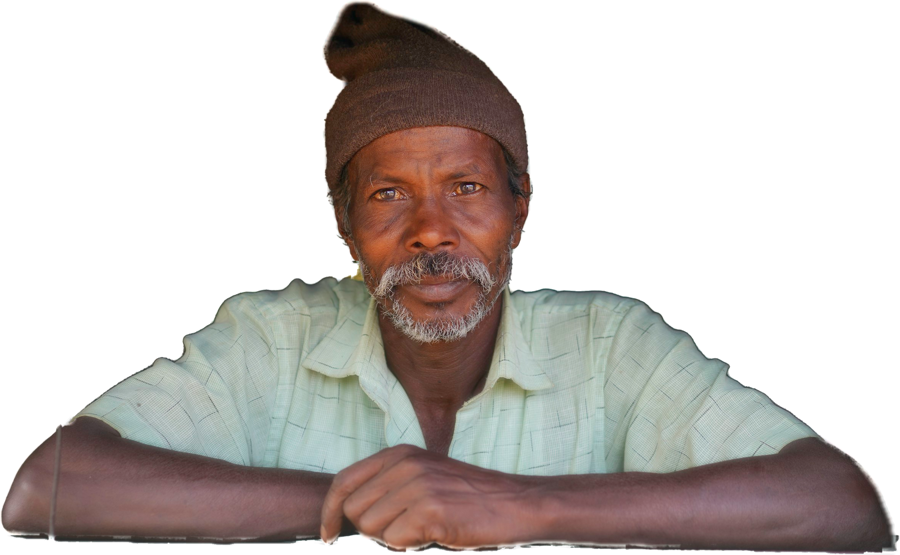
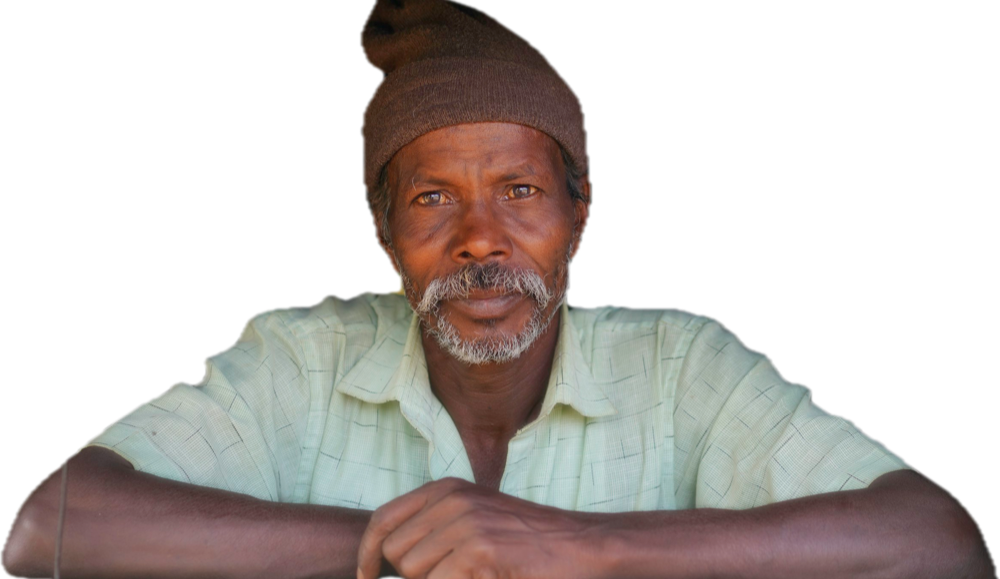
Premium service cards and cleaner farmer cutout
- "Tax Partner For" cards: white cards with corner colour wash, numbered
  labels, icon tiles, cursor spotlight and "Get started" links
- Re-cut farmer image without dark fringe and fit it to the plantation box

diff --git a/index.html b/index.html
@@ -139,43 +139,44 @@
 <!-- ================= TRUSTED FOR ================= -->
 <section class="section" id="for">
   <div class="container">
+    <div class="for-head reveal"><span class="label label--soft">Who we serve</span></div>
     <h2 class="title reveal">Kerala's Most Trusted<br /><span class="navy">Tax Partner For</span></h2>
     <div class="pastel-grid">
       <a href="#contact" class="pcard p-blue reveal">
-        <div class="pcard__top"><h3>Salaried<br />Professionals</h3>
-          <svg viewBox="0 0 48 48" class="ai ai-bag"><rect x="8" y="16" width="32" height="22" rx="4" class="fill-blue"/><path class="handle" d="M18 16v-4a2 2 0 0 1 2-2h8a2 2 0 0 1 2 2v4"/><path d="M8 25h32" stroke="#fff"/><rect x="21" y="22" width="6" height="6" rx="1.5" fill="#fff" stroke="none"/></svg>
-        </div>
+        <div class="pcard__top"><span class="pcard__num">01</span><span class="pcard__icon"><svg viewBox="0 0 48 48" class="ai ai-bag"><rect x="8" y="16" width="32" height="22" rx="4" class="fill-blue"/><path class="handle" d="M18 16v-4a2 2 0 0 1 2-2h8a2 2 0 0 1 2 2v4"/><path d="M8 25h32" stroke="#fff"/><rect x="21" y="22" width="6" height="6" rx="1.5" fill="#fff" stroke="none"/></svg></span></div>
+        <h3>Salaried<br />Professionals</h3>
         <p>Simple, accurate ITR filing with Form 16 and every deduction claimed.</p>
+        <span class="pcard__cta">Get started <i>→</i></span>
       </a>
       <a href="#contact" class="pcard p-mint reveal">
-        <div class="pcard__top"><h3>Business &amp;<br />GST Filers</h3>
-          <svg viewBox="0 0 48 48" class="ai ai-bars"><path d="M6 40h36" /><rect class="b b1" x="10" y="22" width="7" height="18" rx="2" fill="#349c67" stroke="none"/><rect class="b b2" x="21" y="14" width="7" height="26" rx="2" fill="#56c08a" stroke="none"/><rect class="b b3" x="32" y="8" width="7" height="32" rx="2" fill="#349c67" stroke="none"/></svg>
-        </div>
+        <div class="pcard__top"><span class="pcard__num">02</span><span class="pcard__icon"><svg viewBox="0 0 48 48" class="ai ai-bars"><path d="M6 40h36" /><rect class="b b1" x="10" y="22" width="7" height="18" rx="2" fill="#349c67" stroke="none"/><rect class="b b2" x="21" y="14" width="7" height="26" rx="2" fill="#56c08a" stroke="none"/><rect class="b b3" x="32" y="8" width="7" height="32" rx="2" fill="#349c67" stroke="none"/></svg></span></div>
+        <h3>Business &amp;<br />GST Filers</h3>
         <p>GST registration, GSTR-1 &amp; 3B returns, reconciliation and annual returns.</p>
+        <span class="pcard__cta">Get started <i>→</i></span>
       </a>
       <a href="#agri" class="pcard p-lime reveal">
-        <div class="pcard__top"><h3>Farmers &amp;<br />Rubber Planters</h3>
-          <svg viewBox="0 0 48 48" class="ai ai-leaf"><g class="sway"><path d="M24 42V22" stroke="#4d8b2a"/><path d="M24 26c-10 0-14-8-14-16 8 0 14 4 14 16z" fill="#7cc44a" stroke="none"/><path d="M24 22c0-10 6-14 14-14 0 8-4 14-14 14z" fill="#5aa832" stroke="none"/></g></svg>
-        </div>
+        <div class="pcard__top"><span class="pcard__num">03</span><span class="pcard__icon"><svg viewBox="0 0 48 48" class="ai ai-leaf"><g class="sway"><path d="M24 42V22" stroke="#4d8b2a"/><path d="M24 26c-10 0-14-8-14-16 8 0 14 4 14 16z" fill="#7cc44a" stroke="none"/><path d="M24 22c0-10 6-14 14-14 0 8-4 14-14 14z" fill="#5aa832" stroke="none"/></g></svg></span></div>
+        <h3>Farmers &amp;<br />Rubber Planters</h3>
         <p>Rubber Board returns, subsidy paperwork and agricultural income reporting.</p>
+        <span class="pcard__cta">Get started <i>→</i></span>
       </a>
       <a href="#contact" class="pcard p-peach reveal">
-        <div class="pcard__top"><h3>Freelancers &amp;<br />Professionals</h3>
-          <svg viewBox="0 0 48 48" class="ai ai-laptop"><rect x="9" y="10" width="30" height="20" rx="3" fill="#ffd9b0" stroke="#e57a12"/><path d="M5 36h38l-3 4H8z" fill="#e57a12" stroke="none"/><path class="cursor" d="M15 20h8" stroke="#e57a12"/><path class="type" d="M15 25h14" stroke="#f3a35a"/></svg>
-        </div>
+        <div class="pcard__top"><span class="pcard__num">04</span><span class="pcard__icon"><svg viewBox="0 0 48 48" class="ai ai-laptop"><rect x="9" y="10" width="30" height="20" rx="3" fill="#ffd9b0" stroke="#e57a12"/><path d="M5 36h38l-3 4H8z" fill="#e57a12" stroke="none"/><path class="cursor" d="M15 20h8" stroke="#e57a12"/><path class="type" d="M15 25h14" stroke="#f3a35a"/></svg></span></div>
+        <h3>Freelancers &amp;<br />Professionals</h3>
         <p>Consulting income, TDS refunds, advance tax and presumptive taxation.</p>
+        <span class="pcard__cta">Get started <i>→</i></span>
       </a>
       <a href="#contact" class="pcard p-lav reveal">
-        <div class="pcard__top"><h3>Companies &amp;<br />Startups</h3>
-          <svg viewBox="0 0 48 48" class="ai ai-building"><rect x="10" y="8" width="20" height="34" rx="2" fill="#e6ddff" stroke="#6b4ce6"/><rect x="30" y="20" width="10" height="22" rx="2" fill="#d4c6ff" stroke="#6b4ce6"/><g class="win"><rect x="14" y="13" width="4" height="4" rx="1"/><rect x="22" y="13" width="4" height="4" rx="1"/><rect x="14" y="21" width="4" height="4" rx="1"/><rect x="22" y="21" width="4" height="4" rx="1"/><rect x="14" y="29" width="4" height="4" rx="1"/><rect x="22" y="29" width="4" height="4" rx="1"/></g></svg>
-        </div>
+        <div class="pcard__top"><span class="pcard__num">05</span><span class="pcard__icon"><svg viewBox="0 0 48 48" class="ai ai-building"><rect x="10" y="8" width="20" height="34" rx="2" fill="#e6ddff" stroke="#6b4ce6"/><rect x="30" y="20" width="10" height="22" rx="2" fill="#d4c6ff" stroke="#6b4ce6"/><g class="win"><rect x="14" y="13" width="4" height="4" rx="1"/><rect x="22" y="13" width="4" height="4" rx="1"/><rect x="14" y="21" width="4" height="4" rx="1"/><rect x="22" y="21" width="4" height="4" rx="1"/><rect x="14" y="29" width="4" height="4" rx="1"/><rect x="22" y="29" width="4" height="4" rx="1"/></g></svg></span></div>
+        <h3>Companies &amp;<br />Startups</h3>
         <p>Company &amp; LLP registration, ROC filings, bookkeeping and audit support.</p>
+        <span class="pcard__cta">Get started <i>→</i></span>
       </a>
       <a href="#contact" class="pcard p-pink reveal">
-        <div class="pcard__top"><h3>Tax Notices &amp;<br />Planning</h3>
-          <svg viewBox="0 0 48 48" class="ai ai-bell"><g class="ring-bell"><path d="M14 32V22a10 10 0 0 1 20 0v10l3 4H11z" fill="#ffd0e2" stroke="#d63a7a"/><path d="M21 40a3 3 0 0 0 6 0" stroke="#d63a7a"/></g><circle class="ping" cx="35" cy="13" r="4" fill="#d63a7a" stroke="none"/></svg>
-        </div>
+        <div class="pcard__top"><span class="pcard__num">06</span><span class="pcard__icon"><svg viewBox="0 0 48 48" class="ai ai-bell"><g class="ring-bell"><path d="M14 32V22a10 10 0 0 1 20 0v10l3 4H11z" fill="#ffd0e2" stroke="#d63a7a"/><path d="M21 40a3 3 0 0 0 6 0" stroke="#d63a7a"/></g><circle class="ping" cx="35" cy="13" r="4" fill="#d63a7a" stroke="none"/></svg></span></div>
+        <h3>Tax Notices &amp;<br />Planning</h3>
         <p>Expert replies to Income Tax &amp; GST notices plus year-round tax saving.</p>
+        <span class="pcard__cta">Get started <i>→</i></span>
       </a>
     </div>
   </div>

diff --git a/styles.css b/styles.css
@@ -168,9 +168,7 @@ svg { width: 24px; height: 24px; fill: none; stroke: currentColor; stroke-width:
 /* ---------- Pastel "Trusted for" cards ---------- */
 .pastel-grid { display: grid; grid-template-columns: repeat(3, 1fr); gap: 20px; }
 .pcard { position: relative; padding: 28px; border-radius: var(--r); border: 1px solid transparent; transition: transform .45s var(--ease), box-shadow .45s, border-color .3s; overflow: hidden; }
-.pcard::after { content: "\2192"; position: absolute; right: 24px; bottom: 20px; font-size: 18px; opacity: 0; transform: translateX(-8px); transition: .35s var(--ease); }
 .pcard:hover { transform: translateY(-6px); box-shadow: 0 24px 48px -24px rgba(16, 24, 40, .25); border-color: rgba(255, 255, 255, .9); }
-.pcard:hover::after { opacity: .6; transform: none; }
 .pcard__top { display: flex; justify-content: space-between; align-items: flex-start; gap: 12px; }
 .pcard h3 { font-size: 24px; line-height: 1.2; letter-spacing: -.4px; }
 .pcard svg { width: 52px; height: 52px; flex-shrink: 0; }
@@ -387,7 +385,7 @@ svg { width: 24px; height: 24px; fill: none; stroke: currentColor; stroke-width:
 .agri__box img { width: 100%; height: 100%; object-fit: cover; object-position: center 60%; transform: scale(1.08); transition: transform 6s ease-out; }
 .agri.in .agri__box img { transform: scale(1); }
 .agri__box::after { content: ""; position: absolute; inset: 0; background: linear-gradient(180deg, rgba(240, 249, 232, .25), rgba(18, 52, 24, .35)); }
-.agri__farmer { position: absolute; z-index: 1; left: 50%; bottom: 0; width: 100%; transform: translateX(-48%);
+.agri__farmer { position: absolute; z-index: 1; left: 4%; bottom: 0; width: 96%; clip-path: inset(-40% 0 0 0 round 0 0 24px 24px);
   filter: drop-shadow(0 18px 24px rgba(0, 0, 0, .25)); }
 .agri__chip { left: -8px; top: 22%; bottom: auto; z-index: 3; }
 .agri__tap { position: absolute; z-index: 3; right: -6px; top: 12%; display: grid; justify-items: center; gap: 6px; animation: float 6s ease-in-out infinite; animation-delay: -2s; }
@@ -626,3 +624,39 @@ a.citem:hover { transform: translateX(6px); border-color: #cfe2fd; box-shadow: v
   .net__card { padding: 18px; }
   .net__frame { min-height: 220px; }
 }
+
+/* ---------- "Tax Partner For": premium minimal cards ---------- */
+.for-head { text-align: center; margin-bottom: 14px; }
+.label--soft { background: var(--sky); color: var(--blue); }
+.pastel-grid { gap: 18px; }
+.pcard { --tint: 22, 120, 251; display: flex; flex-direction: column; padding: 28px 28px 24px; border-radius: 20px;
+  background: #fff; border: 1px solid var(--line); isolation: isolate; overflow: hidden;
+  transition: transform .5s var(--ease), box-shadow .5s var(--ease), border-color .4s; }
+.pcard::before { content: ""; position: absolute; z-index: -1; top: -40%; right: -30%; width: 75%; aspect-ratio: 1; border-radius: 50%;
+  background: radial-gradient(closest-side, rgba(var(--tint), .14), rgba(var(--tint), 0)); transition: transform .8s var(--ease); }
+.pcard::after { content: ""; position: absolute; z-index: -1; inset: 0; opacity: 0; transition: opacity .4s;
+  background: radial-gradient(260px circle at var(--mx, 50%) var(--my, 50%), rgba(var(--tint), .10), transparent 70%); }
+.pcard:hover { transform: translateY(-6px); border-color: rgba(var(--tint), .28);
+  box-shadow: 0 28px 50px -28px rgba(var(--tint), .45), 0 2px 6px rgba(16, 24, 40, .04); }
+.pcard:hover::before { transform: scale(1.25); }
+.pcard:hover::after { opacity: 1; }
+.pcard__top { align-items: center; margin-bottom: 22px; }
+.pcard__num { font-size: 12px; font-weight: 600; letter-spacing: 1.5px; color: rgba(var(--tint), .9); }
+.pcard__icon { width: 56px; height: 56px; display: grid; place-items: center; border-radius: 16px;
+  background: linear-gradient(145deg, rgba(var(--tint), .12), rgba(var(--tint), .04)); border: 1px solid rgba(var(--tint), .14);
+  transition: transform .5s var(--ease); }
+.pcard__icon svg { width: 34px; height: 34px; }
+.pcard:hover .pcard__icon { transform: rotate(-6deg) scale(1.06); }
+.pcard h3 { font-size: 22px; line-height: 1.25; letter-spacing: -.4px; }
+.pcard p { margin-top: 10px; font-size: 14.5px; line-height: 1.6; color: var(--ink-2); max-width: none; flex: 1; }
+.pcard__cta { display: inline-flex; align-items: center; gap: 6px; margin-top: 20px; padding-top: 16px; border-top: 1px solid var(--line);
+  font-size: 14px; font-weight: 600; color: rgb(var(--tint)); }
+.pcard__cta i { font-style: normal; transition: transform .35s var(--ease); }
+.pcard:hover .pcard__cta i { transform: translateX(5px); }
+.p-blue  { --tint: 22, 120, 251; }
+.p-mint  { --tint: 52, 156, 103; }
+.p-lime  { --tint: 90, 168, 50; }
+.p-peach { --tint: 229, 122, 18; }
+.p-lav   { --tint: 107, 76, 230; }
+.p-pink  { --tint: 214, 58, 122; }
+.p-blue, .p-mint, .p-lime, .p-peach, .p-lav, .p-pink { background: #fff; }

diff --git a/script.js b/script.js
@@ -158,3 +158,12 @@ document.getElementById('contactForm').addEventListener('submit', e => {
   });
   tabs.forEach(t => t.addEventListener('click', () => select(+t.dataset.i, true)));
 })();
+
+// Premium cards: soft spotlight follows the cursor
+document.querySelectorAll('.pcard').forEach(card => {
+  card.addEventListener('pointermove', e => {
+    const r = card.getBoundingClientRect();
+    card.style.setProperty('--mx', `${e.clientX - r.left}px`);
+    card.style.setProperty('--my', `${e.clientY - r.top}px`);
+  });
+});
